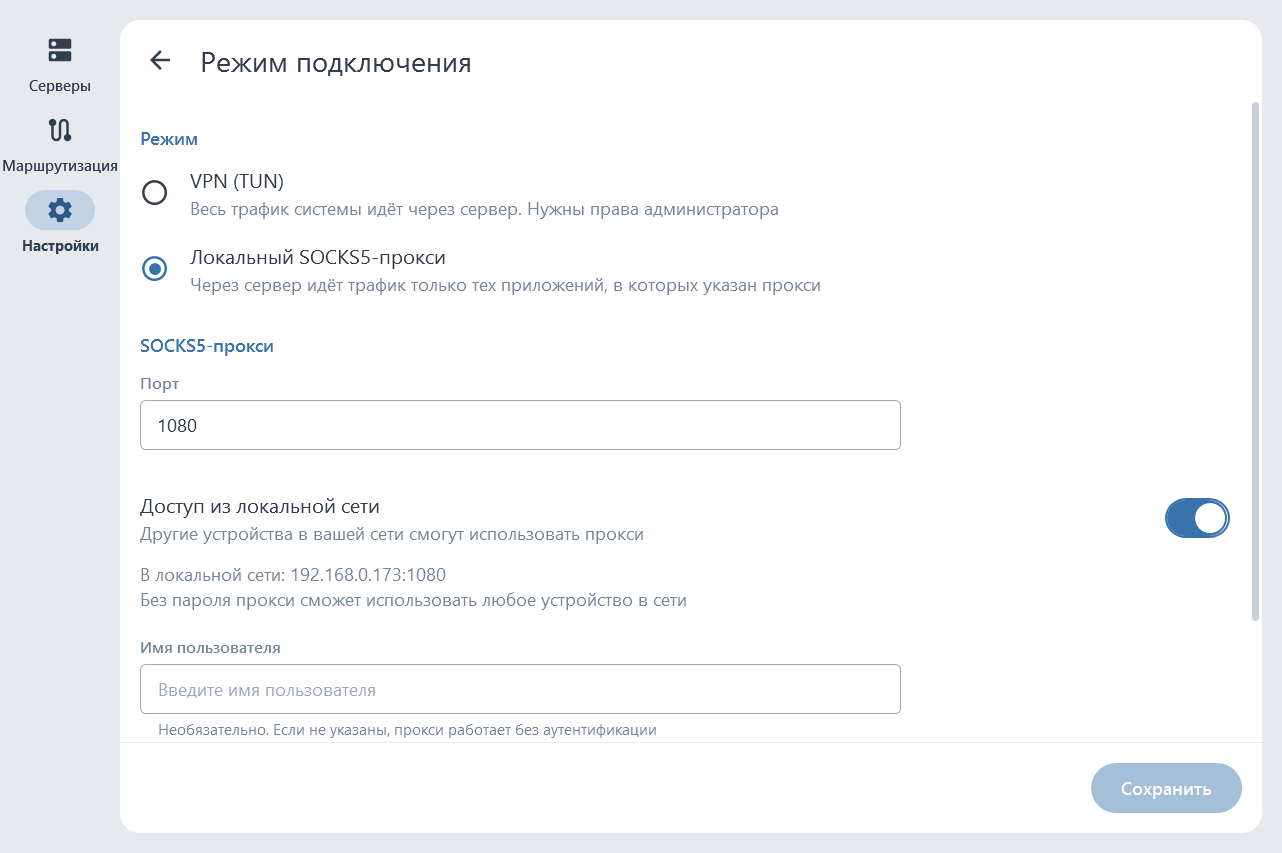
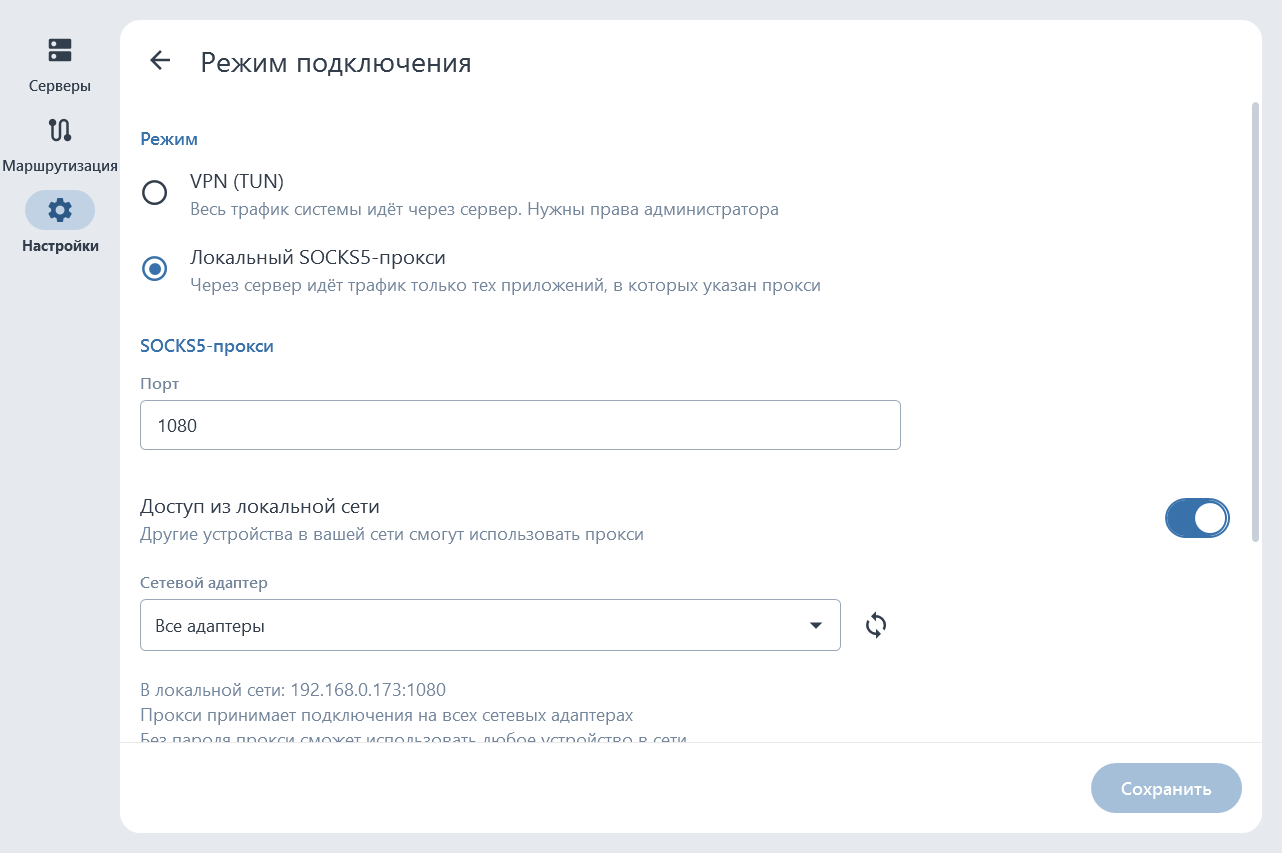
Let the LAN SOCKS5 proxy listen on a chosen network adapter
With several adapters (Ethernet, Wi-Fi, Hyper-V) the proxy can now be
bound to one of them instead of 0.0.0.0. The adapter is stored by id and
its IPv4 address is resolved on every connection; if it is gone, the
connection is refused instead of falling back to all interfaces.

Changed region(s): [[0.0936, 0.6706, 0.5304, 0.8839], [0.9672, 0.6401, 0.9984, 0.7315]]

diff --git a/src/Pages.cs b/src/Pages.cs
@@ -84,8 +84,9 @@ namespace TrustTunnelGui
             texts.Children.Add(UI.TitleSmall(string.Format(L.ProxyBanner, local)));
             if (s.SocksAllowLan)
             {
-                var ips = Net.LocalAddresses().Select(ip => ip + ":" + s.SocksPort).ToList();
-                if (ips.Count > 0) texts.Children.Add(UI.BodyMedium(string.Format(L.ProxyBannerLan, string.Join(", ", ips)), C.NeutralDark));
+                var ips = Net.ProxyLanAddresses(s);
+                if (s.SocksAdapterMissing) texts.Children.Add(UI.BodyMedium(L.AdapterUnavailable, C.Error));
+                else if (ips.Count > 0) texts.Children.Add(UI.BodyMedium(string.Format(L.ProxyBannerLan, string.Join(", ", ips)), C.NeutralDark));
             }
             Grid.SetColumn(texts, 1);
             grid.Children.Add(texts);
@@ -1017,7 +1018,10 @@ namespace TrustTunnelGui
         readonly FormField _username = new FormField(L.Username, L.UsernameHint, L.SocksAuthHelper);
         readonly FormField _password = new FormField(L.Password, L.PasswordHint, null, 1, true);
         readonly TextBlock _lanInfo = UI.BodyMedium("", C.NeutralDark);
+        readonly DropdownField _adapter = new DropdownField(L.SocksAdapter);
+        readonly FrameworkElement _adapterPanel;
         readonly Button _save;
+        List<NetAdapter> _adapters = new List<NetAdapter>();
         System.Windows.Controls.Primitives.ToggleButton _lan;
         string _initial;
 
@@ -1040,6 +1044,22 @@ namespace TrustTunnelGui
             form.Children.Add(_port);
             _socksPanel.Children.Add(UI.MaxWidthLeft(form, 640));
             _socksPanel.Children.Add(Tiles.Switch(L.SocksLan, L.SocksLanDescription, s.SocksAllowLan, delegate { Update(); }, out _lan));
+
+            // Which adapter the proxy listens on when LAN access is on.
+            var adapterForm = new StackPanel { Margin = new Thickness(16, 8, 16, 0) };
+            var adapterRow = new DockPanel();
+            var refresh = UI.IconButton(Icons.Update, L.RefreshAdapters, delegate { LoadAdapters(_adapter.SelectedKey); Update(); });
+            refresh.VerticalAlignment = VerticalAlignment.Bottom;
+            refresh.Margin = new Thickness(8, 0, 0, 21);
+            DockPanel.SetDock(refresh, Dock.Right);
+            adapterRow.Children.Add(refresh);
+            adapterRow.Children.Add(_adapter);
+            adapterForm.Children.Add(adapterRow);
+            _adapterPanel = UI.MaxWidthLeft(adapterForm, 640);
+            _socksPanel.Children.Add(_adapterPanel);
+            LoadAdapters(s.SocksAdapterId);
+            _adapter.Changed += Update;
+
             _lanInfo.Margin = new Thickness(16, 0, 16, 12);
             _socksPanel.Children.Add(_lanInfo);
             var auth = new StackPanel { Margin = new Thickness(16, 8, 16, 0) };
@@ -1062,9 +1082,25 @@ namespace TrustTunnelGui
             Update();
         }
 
+        // "All adapters" plus every active adapter; a saved adapter that is gone stays selectable and is marked unavailable.
+        void LoadAdapters(string selectedId)
+        {
+            _adapters = Net.Adapters();
+            var items = new List<KeyValuePair<string, string>> { new KeyValuePair<string, string>("", L.SocksAdapterAll) };
+            items.AddRange(_adapters.Select(a => new KeyValuePair<string, string>(a.Id, a.Label)));
+            var saved = App.I.Store.Data.Settings;
+            if (!string.IsNullOrEmpty(selectedId) && _adapters.All(a => a.Id != selectedId))
+            {
+                var name = selectedId == saved.SocksAdapterId && saved.SocksAdapterName.Length > 0 ? saved.SocksAdapterName : selectedId;
+                items.Add(new KeyValuePair<string, string>(selectedId, string.Format(L.AdapterUnavailableItem, name)));
+            }
+            _adapter.SetItems(items, selectedId ?? "");
+        }
+
         string Snapshot()
         {
-            return string.Join("\u0001", _socks.IsChecked == true ? "socks" : "tun", _port.Value, _lan != null && _lan.IsChecked == true ? "1" : "0", _username.Value, _password.Value);
+            return string.Join("\u0001", _socks.IsChecked == true ? "socks" : "tun", _port.Value, _lan != null && _lan.IsChecked == true ? "1" : "0",
+                _adapter.SelectedKey ?? "", _username.Value, _password.Value);
         }
 
         public override bool IsDirty { get { return Snapshot() != _initial; } }
@@ -1076,12 +1112,25 @@ namespace TrustTunnelGui
             _socksPanel.IsEnabled = socks;
             _socksPanel.Opacity = socks ? 1 : 0.5;
             bool lan = _lan.IsChecked == true;
+            _adapterPanel.Visibility = lan ? Visibility.Visible : Visibility.Collapsed;
             int port;
             var portText = int.TryParse(_port.Value.Trim(), out port) ? port.ToString() : "1080";
             if (lan)
             {
-                var ips = Net.LocalAddresses();
-                var text = string.Format(L.ProxyBannerLan, ips.Count > 0 ? string.Join(", ", ips.Select(ip => ip + ":" + portText)) : "0.0.0.0:" + portText);
+                string text;
+                var key = _adapter.SelectedKey ?? "";
+                if (key.Length == 0)
+                {
+                    var ips = _adapters.Where(a => !a.IsVirtual).Select(a => a.Ip + ":" + portText).ToList();
+                    text = string.Format(L.ProxyBannerLan, ips.Count > 0 ? string.Join(", ", ips) : "0.0.0.0:" + portText) + "\n" + L.SocksAdapterAllHint;
+                }
+                else
+                {
+                    var adapter = _adapters.FirstOrDefault(a => a.Id == key);
+                    text = adapter != null
+                        ? string.Format(L.ProxyBannerLan, adapter.Ip + ":" + portText) + "\n" + L.SocksAdapterHint
+                        : L.AdapterUnavailable;
+                }
                 if (_username.Value.Trim().Length == 0) text += "\n" + L.SocksLanNoAuth;
                 _lanInfo.Text = text;
                 _lanInfo.Visibility = Visibility.Visible;
@@ -1110,6 +1159,10 @@ namespace TrustTunnelGui
             s.ListenerMode = socks ? "socks" : "tun";
             if (portOk) s.SocksPort = port;
             s.SocksAllowLan = _lan.IsChecked == true;
+            var adapterId = _adapter.SelectedKey ?? "";
+            var adapter = _adapters.FirstOrDefault(a => a.Id == adapterId);
+            if (adapterId != s.SocksAdapterId || adapter != null) s.SocksAdapterName = adapter != null ? adapter.Name : "";
+            s.SocksAdapterId = adapterId;
             s.SocksUsername = user;
             s.SocksPassword = pass;
             App.I.Store.Save();
@@ -1120,12 +1173,23 @@ namespace TrustTunnelGui
         }
     }
 
+    class NetAdapter
+    {
+        public string Id;
+        public string Name;
+        public string Description;
+        public string Ip;
+        public bool IsVirtual;
+
+        public string Label { get { return Name + " — " + Ip; } }
+    }
+
     static class Net
     {
-        // IPv4 addresses of active physical/Wi-Fi adapters, for the "available on local network" hint.
-        public static List<string> LocalAddresses()
+        // Active adapters with an IPv4 address that can accept LAN connections (no loopback, tunnels or Wintun).
+        public static List<NetAdapter> Adapters()
         {
-            var result = new List<string>();
+            var result = new List<NetAdapter>();
             try
             {
                 foreach (var nic in System.Net.NetworkInformation.NetworkInterface.GetAllNetworkInterfaces())
@@ -1133,15 +1197,39 @@ namespace TrustTunnelGui
                     if (nic.OperationalStatus != System.Net.NetworkInformation.OperationalStatus.Up) continue;
                     if (nic.NetworkInterfaceType == System.Net.NetworkInformation.NetworkInterfaceType.Loopback ||
                         nic.NetworkInterfaceType == System.Net.NetworkInformation.NetworkInterfaceType.Tunnel) continue;
-                    if (nic.Description.IndexOf("wintun", StringComparison.OrdinalIgnoreCase) >= 0 ||
-                        nic.Description.IndexOf("virtual", StringComparison.OrdinalIgnoreCase) >= 0) continue;
-                    foreach (var a in nic.GetIPProperties().UnicastAddresses)
-                        if (a.Address.AddressFamily == System.Net.Sockets.AddressFamily.InterNetwork && !result.Contains(a.Address.ToString()))
-                            result.Add(a.Address.ToString());
+                    if (nic.Description.IndexOf("wintun", StringComparison.OrdinalIgnoreCase) >= 0) continue;
+                    var ip = nic.GetIPProperties().UnicastAddresses
+                        .Select(a => a.Address)
+                        .FirstOrDefault(a => a.AddressFamily == System.Net.Sockets.AddressFamily.InterNetwork && !a.ToString().StartsWith("169.254."));
+                    if (ip == null) continue;
+                    result.Add(new NetAdapter
+                    {
+                        Id = nic.Id,
+                        Name = nic.Name,
+                        Description = nic.Description,
+                        Ip = ip.ToString(),
+                        IsVirtual = nic.Description.IndexOf("virtual", StringComparison.OrdinalIgnoreCase) >= 0 ||
+                                    nic.Description.IndexOf("hyper-v", StringComparison.OrdinalIgnoreCase) >= 0
+                    });
                 }
             }
             catch { }
             return result;
+        }
+
+        public static string AdapterIp(string id)
+        {
+            var adapter = Adapters().FirstOrDefault(a => a.Id == id);
+            return adapter == null ? null : adapter.Ip;
+        }
+
+        // Addresses other devices can use to reach the proxy with the current settings.
+        public static List<string> ProxyLanAddresses(AppSettings s)
+        {
+            if (string.IsNullOrEmpty(s.SocksAdapterId))
+                return Adapters().Where(a => !a.IsVirtual).Select(a => a.Ip + ":" + s.SocksPort).ToList();
+            var ip = AdapterIp(s.SocksAdapterId);
+            return ip == null ? new List<string>() : new List<string> { ip + ":" + s.SocksPort };
         }
     }
 

diff --git a/src/DevTools.cs b/src/DevTools.cs
@@ -87,6 +87,23 @@ namespace TrustTunnelGui
             local.Password = "pass";
             File.WriteAllText(Path.Combine(outDir, "built_socks.toml"), ConfigBuilder.Build(local, profile, socksSettings), new UTF8Encoding(false));
 
+            // LAN adapter binding.
+            foreach (var a in Net.Adapters()) sb.AppendLine("adapter: " + a.Label + " virtual=" + a.IsVirtual + " id=" + a.Id);
+            var lan = new AppSettings { ListenerMode = "socks", SocksPort = 1080 };
+            sb.AppendLine("lan off: " + lan.SocksAddress);
+            lan.SocksAllowLan = true;
+            sb.AppendLine("lan all: " + lan.SocksAddress + " hint=" + string.Join(",", Net.ProxyLanAddresses(lan)));
+            var first = Net.Adapters().FirstOrDefault();
+            if (first != null)
+            {
+                lan.SocksAdapterId = first.Id;
+                sb.AppendLine("lan adapter: " + lan.SocksAddress + " missing=" + lan.SocksAdapterMissing + " hint=" + string.Join(",", Net.ProxyLanAddresses(lan)));
+                var adapterCfg = ConfigBuilder.Build(local, profile, lan);
+                sb.AppendLine("config: " + adapterCfg.Split('\n').First(l => l.StartsWith("address =")).Trim());
+            }
+            lan.SocksAdapterId = "{00000000-0000-0000-0000-000000000000}";
+            sb.AppendLine("lan gone adapter: " + lan.SocksAddress + " missing=" + lan.SocksAdapterMissing);
+
             var back = ServerImport.FromClientConfig(cfg);
             sb.AppendLine("roundtrip: address=" + back.Address + " pass=" + back.Password + " proto=" + back.Protocol + " cr=" + back.ClientRandom + " cert=" + back.Certificate.Replace("\n", "\\n"));
             sb.AppendLine("valid addr: " + string.Join(",", new[] { "1.2.3.4", "1.2.3.4:443", "vpn.example.com", "vpn.example.com:8443", "::1", "[::1]:443", "bad host", "1.2.3.4:99999" }.Select(a => a + "=" + Validation.IsAddress(a))));
@@ -234,6 +251,18 @@ namespace TrustTunnelGui
                 s.SocksAllowLan = true;
                 w.SelectTab(2);
                 w.Push(new ConnectionModePage(w));
+            }));
+            steps.Add(Step("24b_connection_mode_adapter", delegate
+            {
+                var s = app.Store.Data.Settings;
+                var adapter = Net.Adapters().FirstOrDefault(a => !a.IsVirtual) ?? Net.Adapters().FirstOrDefault();
+                if (adapter != null) { s.SocksAdapterId = adapter.Id; s.SocksAdapterName = adapter.Name; }
+                s.SocksUsername = "user";
+                s.SocksPassword = "secret";
+                w.SelectTab(2);
+                w.Push(new ConnectionModePage(w));
+                var sv = Find<System.Windows.Controls.ScrollViewer>(w.TopPage);
+                if (sv != null) sv.ScrollToVerticalOffset(250);
             }));
             steps.Add(Step("25_servers_socks_banner", delegate { SetVpnState(app.Vpn, VpnState.Connected, app.Store.Data.Servers[0].Id); w.SelectTab(0); }));
             steps.Add(Step("26_admin_dialog", delegate { app.Store.Data.Settings.ListenerMode = "tun"; app.Store.Data.Settings.SocksAllowLan = false; SetVpnState(app.Vpn, VpnState.Disconnected, null); w.SelectTab(0); w.ShowDialog(L.AdminRequired, UI.BodyMedium(L.AdminRequiredDescription), DialogAction.Cancel(), new DialogAction(L.Restart, delegate { return true; })); }));

diff --git a/src/Strings.cs b/src/Strings.cs
@@ -146,6 +146,13 @@ namespace TrustTunnelGui
         public static string SocksAuthHelper = "Необязательно. Если не указаны, прокси работает без аутентификации";
         public static string SocksAuthPair = "Укажите и имя пользователя, и пароль";
         public static string SocksLanNoAuth = "Без пароля прокси сможет использовать любое устройство в сети";
+        public static string SocksAdapter = "Сетевой адаптер";
+        public static string SocksAdapterAll = "Все адаптеры";
+        public static string SocksAdapterAllHint = "Прокси принимает подключения на всех сетевых адаптерах";
+        public static string SocksAdapterHint = "Прокси принимает подключения только через выбранный адаптер";
+        public static string AdapterUnavailableItem = "{0} (недоступен)";
+        public static string AdapterUnavailable = "Выбранный сетевой адаптер отключён или не получил IPv4-адрес. Подключите его или выберите другой в настройках режима подключения";
+        public static string RefreshAdapters = "Обновить список адаптеров";
         public static string ProxyBanner = "Режим прокси: SOCKS5 {0}";
         public static string ProxyBannerLan = "В локальной сети: {0}";
         public static string AddressCopied = "Адрес скопирован";
@@ -261,6 +268,12 @@ namespace TrustTunnelGui
             { "SocksAuthHelper", "Optional. Without them the proxy accepts connections without authentication" },
             { "SocksAuthPair", "Set both username and password" },
             { "SocksLanNoAuth", "Without a password any device on the network can use the proxy" },
+            { "SocksAdapter", "Network adapter" }, { "SocksAdapterAll", "All adapters" },
+            { "SocksAdapterAllHint", "The proxy accepts connections on every network adapter" },
+            { "SocksAdapterHint", "The proxy accepts connections only through the selected adapter" },
+            { "AdapterUnavailableItem", "{0} (unavailable)" },
+            { "AdapterUnavailable", "The selected network adapter is disconnected or has no IPv4 address. Connect it or choose another one in the connection mode settings" },
+            { "RefreshAdapters", "Refresh adapter list" },
             { "ProxyBanner", "Proxy mode: SOCKS5 {0}" }, { "ProxyBannerLan", "On local network: {0}" },
             { "AddressCopied", "Address copied" }, { "CopyAddress", "Copy address" },
             { "AdminRequired", "Administrator rights required" },

diff --git a/src/Model.cs b/src/Model.cs
@@ -91,7 +91,26 @@ namespace TrustTunnelGui
         public bool IsSocks { get { return ListenerMode == "socks"; } }
 
         [ScriptIgnore]
-        public string SocksAddress { get { return (SocksAllowLan ? "0.0.0.0" : "127.0.0.1") + ":" + SocksPort; } }
+        public string SocksAddress
+        {
+            get
+            {
+                if (!SocksAllowLan) return "127.0.0.1:" + SocksPort;
+                if (string.IsNullOrEmpty(SocksAdapterId)) return "0.0.0.0:" + SocksPort;
+                // A chosen adapter that is gone must not silently widen access to every interface.
+                return (Net.AdapterIp(SocksAdapterId) ?? "127.0.0.1") + ":" + SocksPort;
+            }
+        }
+
+        // LAN access bound to one adapter (empty = all adapters). The IP is resolved on every connection.
+        public string SocksAdapterId = "";
+        public string SocksAdapterName = "";
+
+        [ScriptIgnore]
+        public bool SocksAdapterMissing
+        {
+            get { return IsSocks && SocksAllowLan && !string.IsNullOrEmpty(SocksAdapterId) && Net.AdapterIp(SocksAdapterId) == null; }
+        }
         public List<string> ExcludedRoutes = new List<string>(Defaults.ExcludedRoutes);
     }
 

diff --git a/src/App.cs b/src/App.cs
@@ -291,6 +291,11 @@ namespace TrustTunnelGui
         {
             Store.Data.Settings.SelectedServerId = server.Id;
             Store.Save();
+            if (Store.Data.Settings.SocksAdapterMissing)
+            {
+                OnVpnFailed(L.AdapterUnavailable);
+                return;
+            }
             // TUN needs an elevated client; SOCKS mode works with normal rights.
             if (!Store.Data.Settings.IsSocks && !IsElevated)
             {

diff --git a/README.md b/README.md
@@ -98,12 +98,23 @@ TrustTunnelGUI-1.1.0-setup.exe --silent
 | Какой трафик идёт через сервер | весь трафик системы | только приложений, где указан прокси |
 | Права администратора | нужны | не нужны |
 | Настройка приложений | не требуется | указать `127.0.0.1:1080` (порт меняется) в настройках прокси |
-| Другие устройства в сети | — | по желанию, с логином и паролем |
+| Другие устройства в сети | — | по желанию: на всех адаптерах или только на выбранном, с логином и паролем |
 | Исключённые маршруты, DNS системы | применяются | не применяются |
 
 <p align="center">
   <img src="docs/screenshots/connection-mode.png" width="49%" alt="Режим подключения">
   <img src="docs/screenshots/servers-socks.png" width="49%" alt="Адрес прокси на экране серверов">
+</p>
+
+**Выбор сетевого адаптера.** Если в компьютере несколько адаптеров (например, Ethernet в домашней сети, Wi-Fi
+в гостевой и виртуальный Hyper-V), прокси можно открыть только на одном из них. Для этого в списке
+*Сетевой адаптер* вместо «Все адаптеры» выберите нужный. Прокси будет слушать только IP этого адаптера.
+Запоминается сам адаптер, а не его адрес, поэтому смена IP по DHCP ничего не ломает. Если выбранный адаптер
+отключён или не получил IPv4-адрес, подключение не запустится, а приложение подскажет, в чём дело:
+прокси не откроется тихо на остальных адаптерах.
+
+<p align="center">
+  <img src="docs/screenshots/connection-mode-adapter.png" width="70%" alt="Выбор сетевого адаптера">
 </p>
 
 ## Скриншоты

diff --git a/CHANGELOG.md b/CHANGELOG.md
@@ -5,6 +5,8 @@
 ### Добавлено
 - Локальный SOCKS5-прокси как альтернатива VPN (TUN): порт, доступ из локальной сети, логин и пароль.
   В этом режиме на экране серверов показывается адрес прокси.
+- Выбор сетевого адаптера для доступа к прокси из локальной сети: прокси слушает только IP выбранного адаптера.
+  Если адаптер недоступен, подключение не запускается.
 - Тёмная тема, режим «как в системе» с отслеживанием настроек Windows, тёмный заголовок окна и меню в трее.
 - Английский язык интерфейса.
 - Запуск без прав администратора: приложение перезапускается с повышенными правами, только когда это нужно для режима VPN (TUN).
